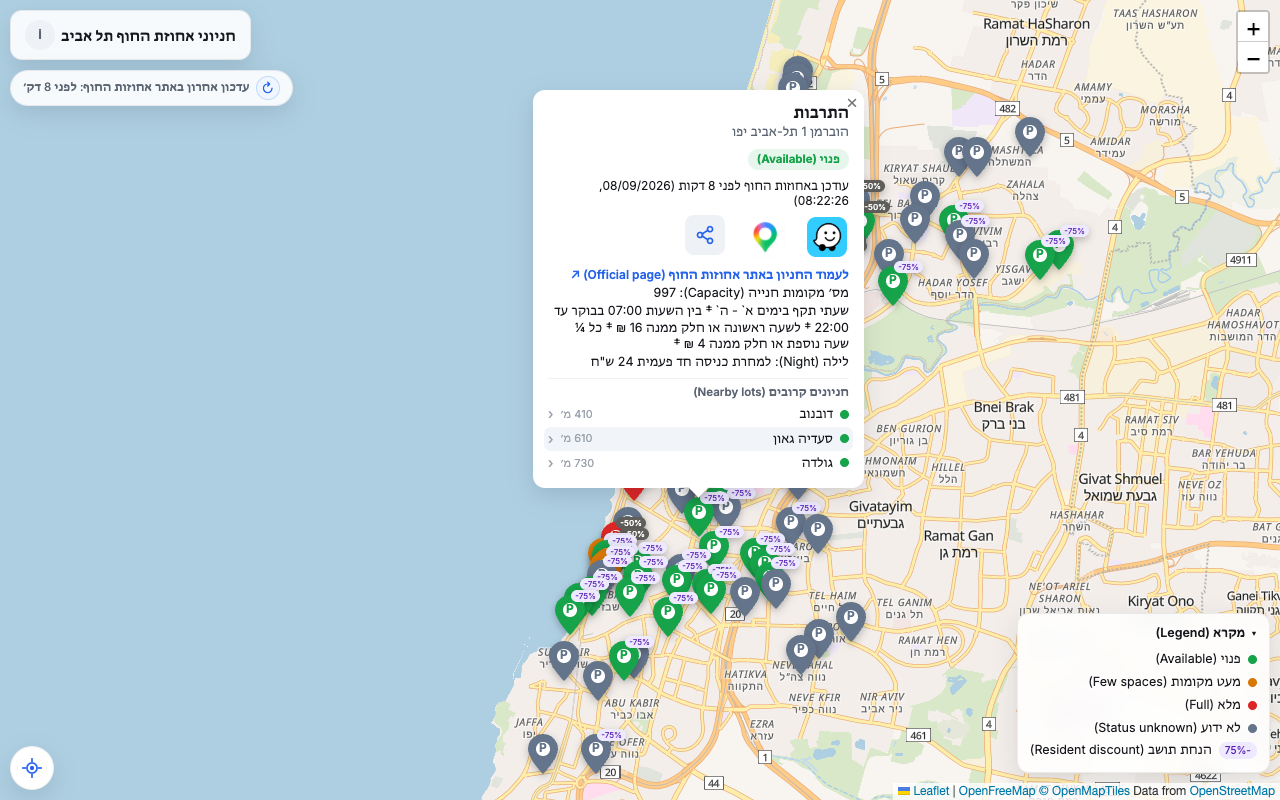
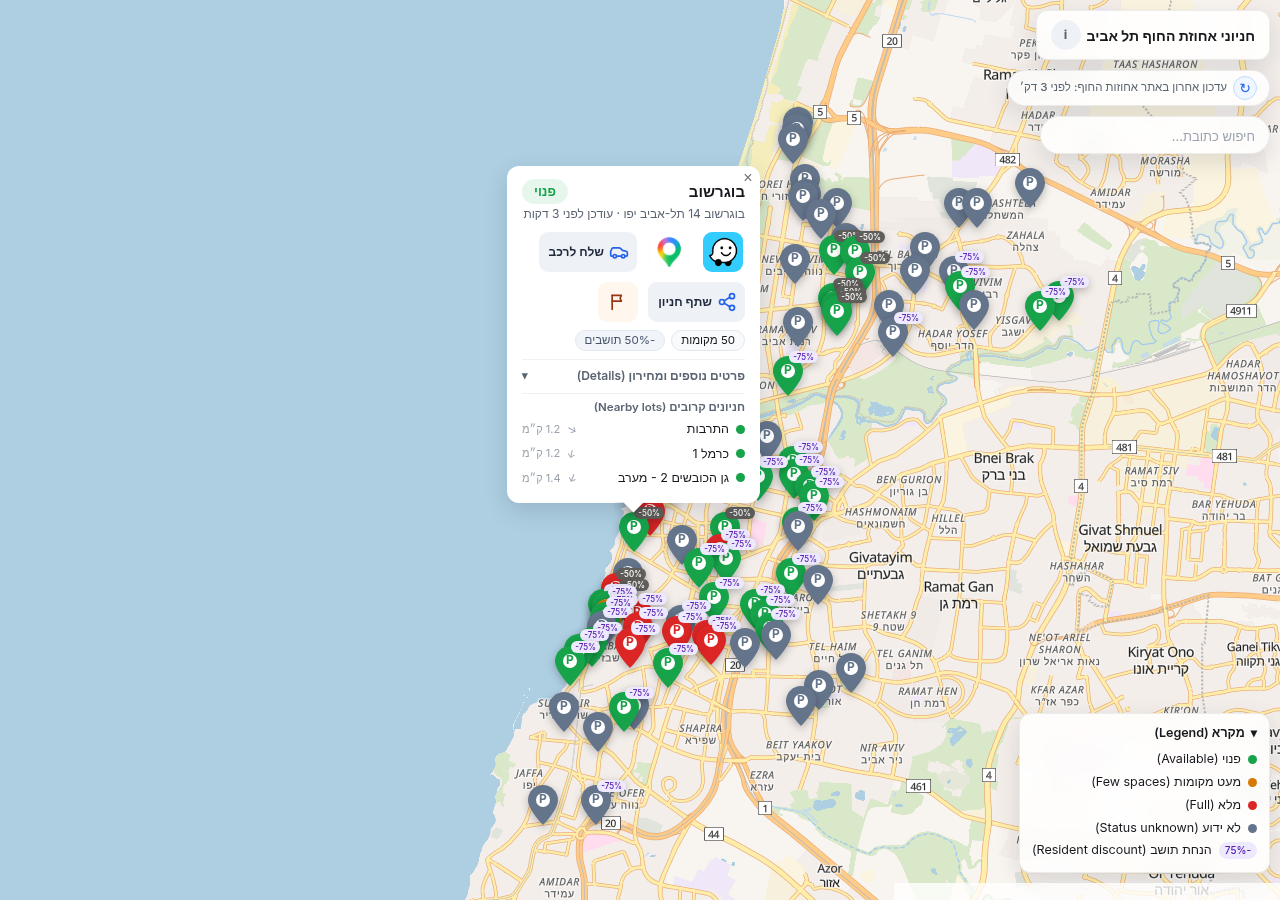
Split the lot share button into send-to-car and share-lot (#1)
The single share mixed a Google Maps directions URL into the same
payload as the #lot= deep link, so apps like WhatsApp mostly showed
Maps and there was no way to share a lot inside the map. Send to car
now sits with Waze and Google Maps and shares only the directions
URL. Share lot shares only the site deep link, with a Hebrew label
on each button.

diff --git a/js/markers.js b/js/markers.js
@@ -1,5 +1,5 @@
 // Lot markers and their popups: re-rendered on every data refresh, plus
-// everything popups carry — Plan B nearby alternatives, the share button,
+// everything popups carry — Plan B nearby alternatives, the share actions,
 // #lot= deep links, and keeping an open popup alive across re-renders.
 // Plan B lives here (not its own module) because it and the popup HTML and
 // markersByLotId all need each other; splitting them would only create an
@@ -162,9 +162,47 @@ function createShareIcon() {
 }
 
 // Single source of truth for the share glyph: the popup HTML string is
-// derived from the same DOM builder used to restore the icon after the
-// "copied" flash, so the two can't drift apart.
+// derived from the same DOM builder, so a later tweak can't ship a
+// different icon than the one the module knows how to draw.
 const SHARE_SVG = createShareIcon().outerHTML;
+
+// Side-view car, same stroke weight as the share glyph, for "שלח לרכב".
+function createCarIcon() {
+  const svg = document.createElementNS(SVG_NS, "svg");
+  svg.setAttribute("width", "20");
+  svg.setAttribute("height", "20");
+  svg.setAttribute("viewBox", "0 0 24 24");
+  svg.setAttribute("fill", "none");
+  svg.setAttribute("stroke", "currentColor");
+  svg.setAttribute("stroke-width", "2");
+  svg.setAttribute("stroke-linecap", "round");
+  svg.setAttribute("stroke-linejoin", "round");
+  const body = document.createElementNS(SVG_NS, "path");
+  body.setAttribute("d", "M19 17h2c.6 0 1-.4 1-1v-3c0-.9-.7-1.7-1.5-1.9C18.7 10.6 16 10 16 10s-1.3-1.4-2.2-2.3c-.5-.4-1.1-.7-1.8-.7H5c-.6 0-1.1.4-1.4.9l-1.4 2.9A3.7 3.7 0 0 0 2 12v4c0 .6.4 1 1 1h2");
+  svg.appendChild(body);
+  const axle = document.createElementNS(SVG_NS, "path");
+  axle.setAttribute("d", "M9 17h6");
+  svg.appendChild(axle);
+  [[7, 17], [17, 17]].forEach((c) => {
+    const circle = document.createElementNS(SVG_NS, "circle");
+    circle.setAttribute("cx", c[0]);
+    circle.setAttribute("cy", c[1]);
+    circle.setAttribute("r", "2");
+    svg.appendChild(circle);
+  });
+  return svg;
+}
+const CAR_SVG = createCarIcon().outerHTML;
+
+// Google Maps directions by exact coordinates. Shared by the Maps button
+// and "שלח לרכב" so the two can't drift to different URLs.
+function mapsDirectionsUrl(latlon) {
+  return "https://www.google.com/maps/dir/?api=1&destination=" + encodeURIComponent(latlon);
+}
+
+function lotDeepLink(lotId) {
+  return location.origin + location.pathname + "#lot=" + lotId;
+}
 
 function createFlagIcon() {
   const svg = document.createElementNS(SVG_NS, "svg");
@@ -212,7 +250,7 @@ function reportFor(lot, categoryKey) {
   return buildReport(lot, categoryKey, {
     ahuzotId,
     officialLink: ahuzotId ? AHUZOT_LINK_BASE + ahuzotId : undefined,
-    deepLink: location.origin + location.pathname + "#lot=" + lot.id
+    deepLink: lotDeepLink(lot.id)
   });
 }
 
@@ -288,45 +326,57 @@ function onReportClick(e) {
   refreshGmailLink(panel);
 }
 
+// Two share actions, because one payload can't serve both audiences.
+// "שלח לרכב" (popup-send-car) shares ONLY the Google Maps directions URL.
+// Nav-oriented targets such as the Tesla app geocode the first place-like
+// thing in the text and can't parse our #lot= deep link; a leading lot
+// name ("כרמל 1", or "בית האצ\"ל" whose gershayim breaks address parsing)
+// used to resolve to the city center, so the text is the Maps URL alone.
+// text and url are the same URL on purpose: targets that read text (Tesla)
+// and targets that preview url (WhatsApp) each receive only that link.
+// "שתף חניון" (popup-share) shares ONLY the site deep link, with a Hebrew
+// sentence and no Maps URL, so a person opening it lands on this lot.
 // navigator.share opens the native sheet (the mobile case this is for);
-// desktop browsers without it copy the link and flash confirmation.
+// without it, copy the relevant link and flash ✓, then prompt() if the
+// clipboard rejects. AbortError is the user dismissing the sheet.
 function onShareClick(e) {
-  const btn = e.target.closest && e.target.closest(".popup-share");
+  const btn = e.target.closest && e.target.closest(".popup-share, .popup-send-car");
   if (!btn) return;
-  const url = location.origin + location.pathname + "#lot=" + btn.getAttribute("data-lot-id");
-  const name = btn.getAttribute("data-lot-name");
-  // The text carries a Google Maps destination link so nav-oriented share
-  // targets (e.g. the Tesla app, which sends destinations to the car and
-  // can't parse our deep link) get usable coordinates; human recipients
-  // still get the map deep link in the url field.
-  // The link goes FIRST: such targets geocode the first place-like thing
-  // they find in the text, and a leading lot name like "כרמל 1" (generic)
-  // or "בית האצ\"ל" (gershayim breaks address parsing) resolved to the city
-  // center instead of the lot, while unique names like "ליבר" happened to
-  // work. Coordinates first, name on its own line after.
-  const navUrl = "https://www.google.com/maps/dir/?api=1&destination=" +
-    encodeURIComponent(btn.getAttribute("data-latlon"));
-  track("share", { lot: name, method: navigator.share ? "sheet" : "copy" });
+  const name = btn.getAttribute("data-lot-name") || "חניון";
+  const toCar = btn.classList.contains("popup-send-car");
+  const link = toCar
+    ? mapsDirectionsUrl(btn.getAttribute("data-latlon"))
+    : lotDeepLink(btn.getAttribute("data-lot-id"));
+  const payload = toCar
+    ? { title: "חניון " + name, text: link, url: link }
+    : { title: "חניון " + name, text: "חניון " + name + " – תפוסה בזמן אמת", url: link };
+  const method = navigator.share ? "sheet" : "copy";
+  const target = toCar ? "car" : "lot";
+  // "share" stays so existing dashboards keep counting shares; the
+  // per-button event says which link actually went out.
+  track("share", { lot: name, method: method, target: target });
+  track(toCar ? "share_car" : "share_lot", { lot: name, method: method });
   if (navigator.share) {
-    navigator.share({ title: "חניון " + name, text: navUrl + "\nחניון " + name, url: url }).catch(() => {});
-  } else if (navigator.clipboard && navigator.clipboard.writeText) {
-    navigator.clipboard.writeText(url).then(() => {
-      // Compact ✓ flash: the button keeps its fixed size so the flash
-      // can't overflow the popup-nav row.
-      btn.classList.add("copied");
-      btn.textContent = "✓";
-      setTimeout(() => {
-        btn.classList.remove("copied");
-        btn.textContent = "";
-        btn.appendChild(createShareIcon());
-      }, 1600);
-    }).catch(() => {
-      // Clipboard can reject (unfocused document, permissions policy);
-      // fall back to letting the user copy manually.
-      window.prompt("העתק את הקישור (Copy the link):", url);
+    navigator.share(payload).catch((err) => {
+      if (err && err.name === "AbortError") return;
     });
   } else {
-    window.prompt("העתק את הקישור (Copy the link):", url);
+    copyLink(btn, link);
+  }
+}
+
+function copyLink(btn, link) {
+  const promptCopy = () => window.prompt("העתק את הקישור (Copy the link):", link);
+  if (navigator.clipboard && navigator.clipboard.writeText) {
+    navigator.clipboard.writeText(link).then(() => {
+      // ✓ stays inside the fixed icon box (see .popup-action.copied) so
+      // the label and the row width don't jump.
+      btn.classList.add("copied");
+      clearTimeout(btn._copiedTimer);
+      btn._copiedTimer = setTimeout(() => btn.classList.remove("copied"), 1600);
+    }).catch(promptCopy);
+  } else {
+    promptCopy();
   }
 }
 
@@ -369,7 +419,9 @@ function popupHtml(lot, info, isStale, nowMs, visibleLots, officialLink, capacit
   // like "הנמל 1" are ambiguous (e.g. Tel Aviv Port vs. Jaffa Port) and
   // Waze/Google's geocoder can resolve them to the wrong place entirely.
   // The GIS coordinates are exact, so they're the reliable choice.
-  const destinationParam = encodeURIComponent(lot.lat + "," + lot.lon);
+  const latlon = lot.lat + "," + lot.lon;
+  const destinationParam = encodeURIComponent(latlon);
+  const mapsUrl = mapsDirectionsUrl(latlon);
 
   const updatedAgo = lot.updatedAt
     ? `עודכן ${escapeHtml(formatAgo(lot.updatedAt, nowMs))}`
@@ -395,15 +447,26 @@ function popupHtml(lot, info, isStale, nowMs, visibleLots, officialLink, capacit
         escapeHtml(lot.updatedAt ? formatAgo(lot.updatedAt, nowMs).replace(/^לפני /, "מזה ") : "זמן רב") +
         " — ייתכן שאינו מדויק (Status may be outdated)</div>"
       : "") +
-    '<div class="popup-nav">' +
-      `<a class="popup-nav-btn" data-nav="waze" data-lot-id="${escapeHtml(lot.id)}" href="https://waze.com/ul?ll=${destinationParam}&navigate=yes" target="_blank" rel="noopener noreferrer" aria-label="Waze" title="Waze">` +
-        '<img src="waze-icon.png" alt="" width="40" height="40" />' +
-      "</a>" +
-      `<a class="popup-nav-btn" data-nav="maps" data-lot-id="${escapeHtml(lot.id)}" href="https://www.google.com/maps/dir/?api=1&destination=${destinationParam}" target="_blank" rel="noopener noreferrer" aria-label="Google Maps" title="Google Maps">` +
-        '<img src="google-maps-icon.png" alt="" width="40" height="40" />' +
-      "</a>" +
-      `<button type="button" class="popup-share" data-lot-id="${escapeHtml(lot.id)}" data-lot-name="${escapeHtml(lot.name || "חניון")}" data-latlon="${escapeHtml(lot.lat + "," + lot.lon)}" title="שתף קישור לחניון (Share)" aria-label="שתף (Share)">${SHARE_SVG}</button>` +
-      `<button type="button" class="popup-report" title="דיווח על נתון שגוי לאחוזות החוף (Report wrong data)" aria-label="דיווח על נתון שגוי (Report wrong data)">${FLAG_SVG}</button>` +
+    '<div class="popup-actions">' +
+      '<div class="popup-nav">' +
+        `<a class="popup-nav-btn" data-nav="waze" data-lot-id="${escapeHtml(lot.id)}" href="https://waze.com/ul?ll=${destinationParam}&navigate=yes" target="_blank" rel="noopener noreferrer" aria-label="Waze" title="Waze">` +
+          '<img src="waze-icon.png" alt="" width="40" height="40" />' +
+        "</a>" +
+        `<a class="popup-nav-btn" data-nav="maps" data-lot-id="${escapeHtml(lot.id)}" href="${escapeHtml(mapsUrl)}" target="_blank" rel="noopener noreferrer" aria-label="Google Maps" title="Google Maps">` +
+          '<img src="google-maps-icon.png" alt="" width="40" height="40" />' +
+        "</a>" +
+        `<button type="button" class="popup-action popup-send-car" data-share="car" data-lot-id="${escapeHtml(lot.id)}" data-lot-name="${escapeHtml(lot.name || "חניון")}" data-latlon="${escapeHtml(latlon)}" title="שלח לרכב — קישור ניווט בגוגל מפות (Send to car)" aria-label="שלח לרכב (Send to car)">` +
+          `<span class="popup-action-icon" aria-hidden="true">${CAR_SVG}</span>` +
+          `<span class="popup-action-label">שלח לרכב</span>` +
+        "</button>" +
+      "</div>" +
+      '<div class="popup-secondary">' +
+        `<button type="button" class="popup-action popup-share" data-share="lot" data-lot-id="${escapeHtml(lot.id)}" data-lot-name="${escapeHtml(lot.name || "חניון")}" title="שתף חניון — קישור לפתיחת החניון במפה (Share lot)" aria-label="שתף חניון (Share lot)">` +
+          `<span class="popup-action-icon" aria-hidden="true">${SHARE_SVG}</span>` +
+          `<span class="popup-action-label">שתף חניון</span>` +
+        "</button>" +
+        `<button type="button" class="popup-report" title="דיווח על נתון שגוי לאחוזות החוף (Report wrong data)" aria-label="דיווח על נתון שגוי (Report wrong data)">${FLAG_SVG}</button>` +
+      "</div>" +
     "</div>" +
     reportPanelHtml(lot) +
     (chips ? `<div class="popup-chips">${chips}</div>` : "") +

diff --git a/css/style.css b/css/style.css
@@ -170,20 +170,38 @@ html, body { margin: 0; padding: 0; height: 100%; font-family: var(--font); }
 .popup-sub .popup-updated { font-size: inherit; color: inherit; margin: 0; }
 .popup-sub .popup-updated.stale { color: #9a3412; }
 .popup-row { font-size: 12.5px; margin: 2px 0; color: #16181d; }
-.popup-nav { display: flex; gap: 18px; margin: 8px 0; }
+.popup-actions { display: flex; flex-direction: column; gap: 8px; margin: 8px 0; }
+.popup-nav, .popup-secondary {
+  display: flex; align-items: center; gap: 10px; margin: 0; flex-wrap: wrap;
+}
 .popup-nav .popup-nav-btn {
   display: inline-flex; align-items: center; justify-content: center;
-  width: 44px; height: 44px;
+  width: 44px; height: 44px; flex-shrink: 0;
 }
 .popup-nav .popup-nav-btn img { width: 40px; height: 40px; border-radius: 9px; display: block; }
-.popup-nav .popup-share, .popup-nav .popup-report {
+.popup-action {
+  display: inline-flex; align-items: center; gap: 5px; height: 40px; flex-shrink: 0;
+  padding-block: 0; padding-inline: 8px 10px; border: none; border-radius: 9px; cursor: pointer;
+  background: #eef1f5; color: #2563eb; font-family: var(--font); direction: rtl;
+  -webkit-appearance: none; appearance: none;
+}
+.popup-action:hover, .popup-action:focus-visible { background: #e2e6eb; }
+.popup-action:focus-visible { outline: 2px solid #2563eb; outline-offset: 2px; }
+.popup-action-icon {
+  width: 20px; height: 20px; display: inline-flex; align-items: center; justify-content: center;
+  position: relative; flex-shrink: 0;
+}
+.popup-action-icon svg { display: block; }
+.popup-action-label {
+  font-size: 12px; font-weight: 600; line-height: 1; color: #1e293b; white-space: nowrap;
+}
+.popup-secondary .popup-report {
   width: 40px; height: 40px; border-radius: 9px; border: none; cursor: pointer;
-  background: #eef1f5; color: #2563eb; display: inline-flex; flex-shrink: 0;
+  color: #9a3412; background: #fff7ed; display: inline-flex; flex-shrink: 0;
   align-items: center; justify-content: center; padding: 0; font-family: var(--font);
 }
-.popup-nav .popup-share:hover, .popup-nav .popup-report:hover { background: #e2e6eb; }
-.popup-nav .popup-report { color: #9a3412; background: #fff7ed; }
-.popup-nav .popup-report:hover { background: #ffedd5; }
+.popup-secondary .popup-report:hover { background: #ffedd5; }
+.popup-secondary .popup-report:focus-visible { outline: 2px solid #9a3412; outline-offset: 2px; }
 
 .popup-report-panel {
   background: #f8fafc; border: 1px solid #e2e8f0; border-radius: 10px;
@@ -227,8 +245,13 @@ html, body { margin: 0; padding: 0; height: 100%; font-family: var(--font); }
 .popup-details .details-chevron { transition: transform .15s ease; font-size: 11px; }
 .popup-details[open] .details-chevron { transform: rotate(180deg); }
 .popup-details-body { padding: 4px 0 2px; }
-.popup-nav .popup-share.copied {
-  font-size: 17px; font-weight: 700; color: #166534; background: #dcfce7;
+.popup-action.copied { color: #166534; background: #dcfce7; }
+.popup-action.copied .popup-action-label { color: #166534; }
+.popup-action.copied .popup-action-icon svg { visibility: hidden; }
+.popup-action.copied .popup-action-icon::after {
+  content: "✓"; position: absolute; inset: 0; display: flex;
+  align-items: center; justify-content: center;
+  font-size: 16px; font-weight: 700; line-height: 1;
 }
 .popup-planb { border-top: 1px solid #eef1f5; margin-top: 8px; padding-top: 6px; }
 .popup-planb-title { font-size: 11.5px; font-weight: 600; color: #5b6472; margin-bottom: 2px; }

diff --git a/README.md b/README.md
@@ -34,9 +34,13 @@ Live: https://tlv-parking.vercel.app/ (also mirrored at https://chenmu10.github.
   status shown, both timestamps). Nothing is sent automatically — it opens as
   a Gmail draft to review; users without Gmail get a link to ahuzot.co.il's
   contact form
-- One-tap navigation to a lot via Waze or Google Maps (by exact coordinates)
-- Share button per lot (native share sheet / copy link) with `#lot=<id>` deep
-  links that open the shared lot's popup directly
+- One-tap navigation to a lot via Waze or Google Maps (by exact coordinates).
+  "שלח לרכב" sits with those buttons and shares only the Google Maps
+  directions link, so car targets (such as Tesla) receive a clean Maps URL
+- "שתף חניון" shares only the site deep link (`#lot=<id>`, native share
+  sheet, or copy) with the text `חניון <name> – תפוסה בזמן אמת`. Opening
+  that link lands on the lot's popup. If sharing isn't available, either
+  button copies its own link (✓) or falls back to a copy prompt
 - Freshness pill showing when the source data last changed, with a manual
   refresh button and an outage state when the feed serves no statuses
 - A link to the lot's official ahuzot.co.il page when one can be matched by name
@@ -51,7 +55,8 @@ Live: https://tlv-parking.vercel.app/ (also mirrored at https://chenmu10.github.
 - Auto-refreshes every 2 minutes, paused while the tab/screen is backgrounded
 - Free, cookie-free analytics: Cloudflare Web Analytics (page views, both
   hosts) and Vercel Web Analytics on the Vercel host, including usage events
-  (Waze/Maps taps, share, nearby-lot jumps, details, report, search outcome,
+  (Waze/Maps taps, share with a `target` of `lot` or `car`, plus `share_lot`
+  and `share_car`, nearby-lot jumps, details, report, search outcome,
   deep links, locate, manual refresh, portfolio link) — lot names only, never typed text
 - Small "i" info button next to the title for contact info and data-source links
 
